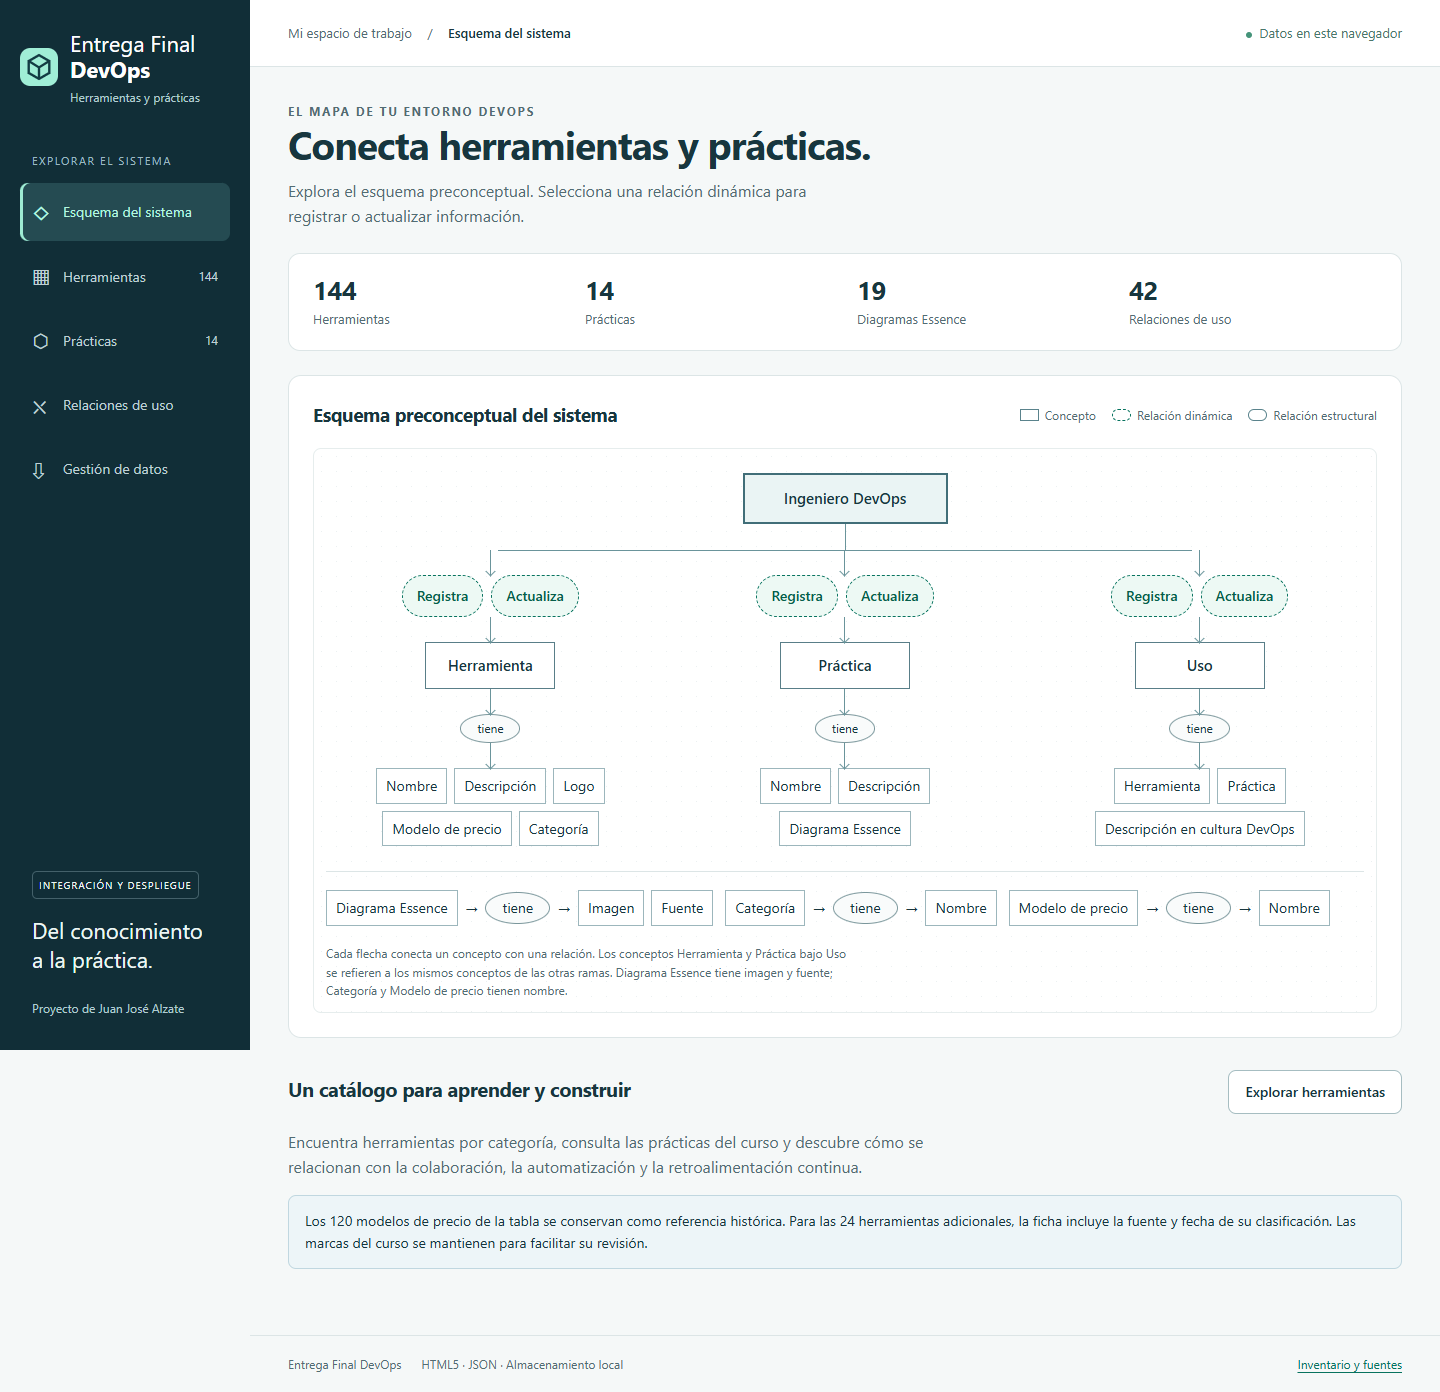
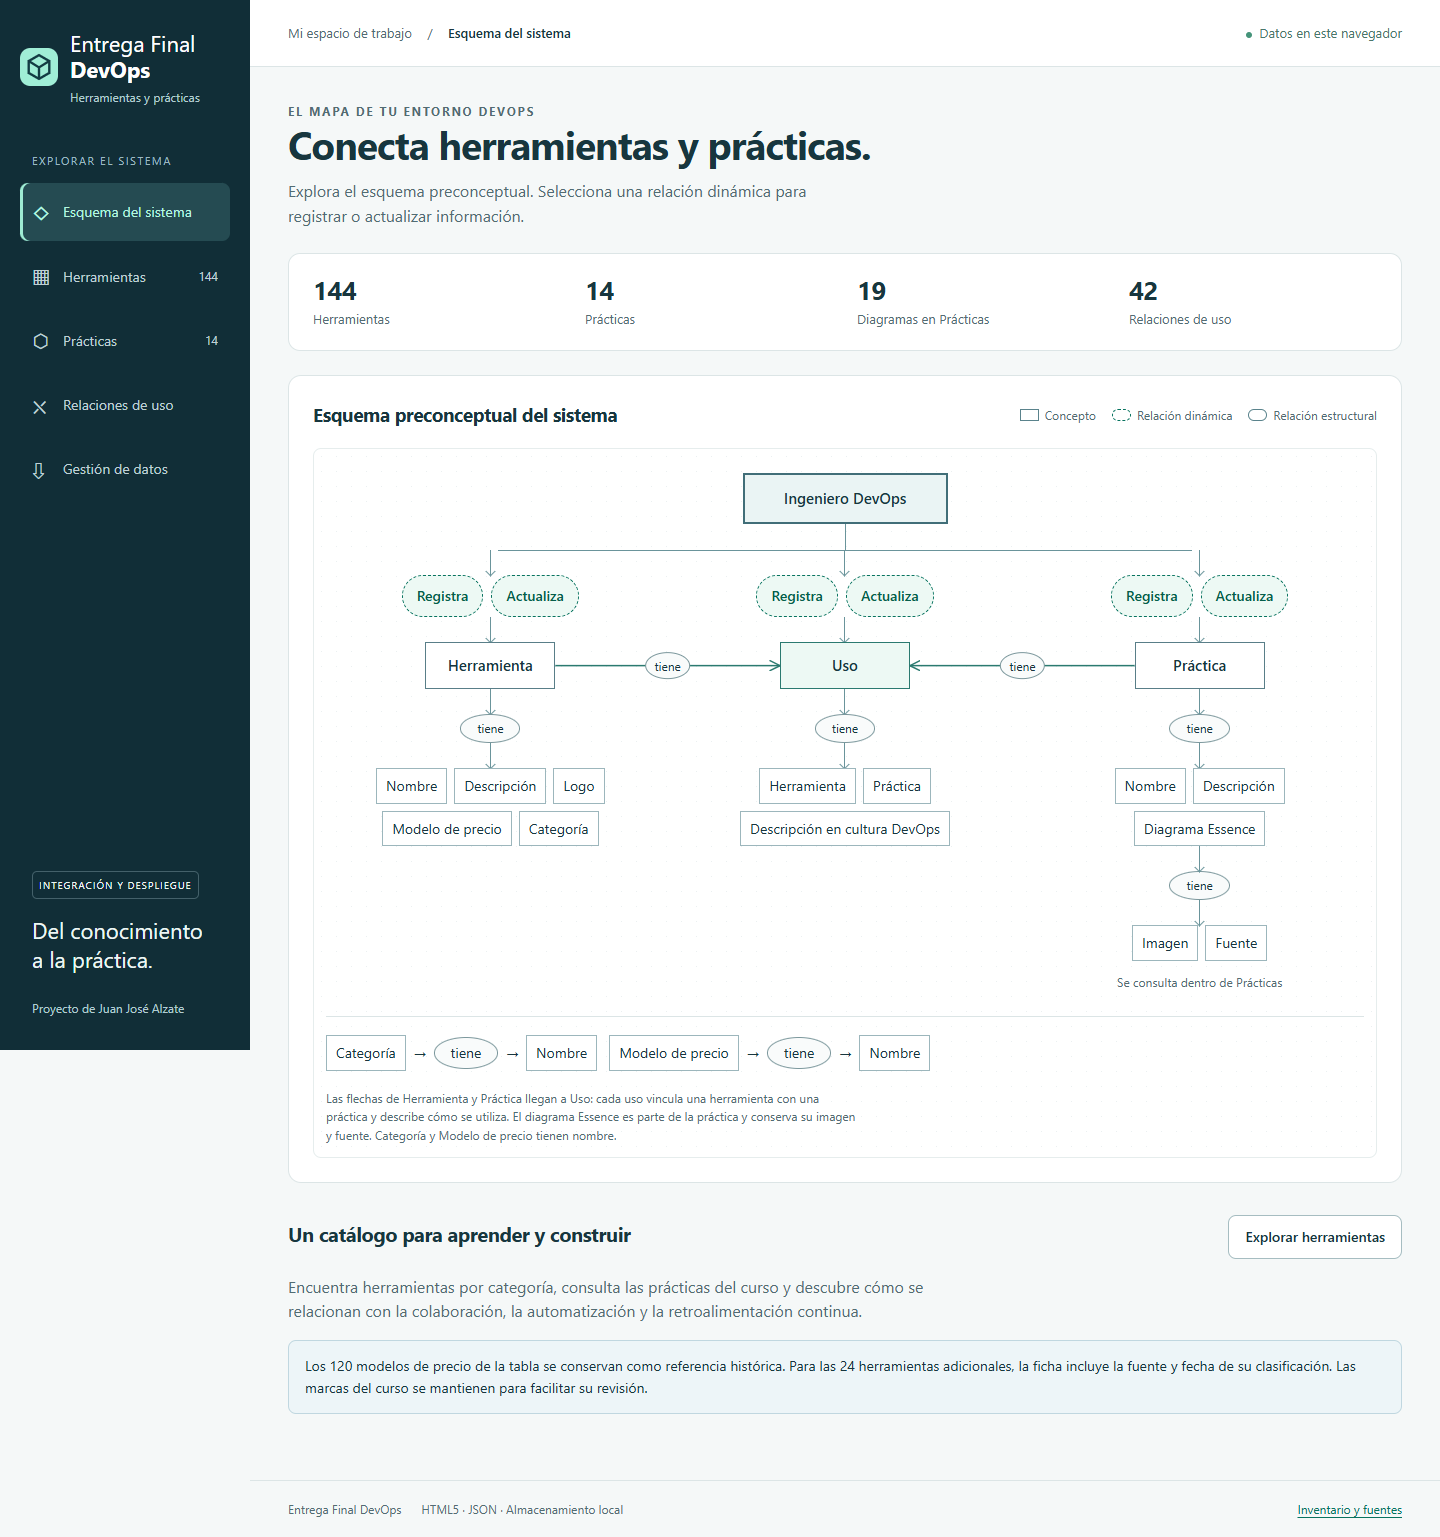
feat: centrar Uso y conectar herramientas y practicas en el esquema

diff --git a/app/js/schema.js b/app/js/schema.js
@@ -1,0 +1,97 @@
+import { escape as e } from "./ui.js";
+
+export function renderSchema() {
+  const branch = (type, label, attributes, detail = "") =>
+    `<div class="branch" data-entity="${type}"><div class="connector"></div><div class="dynamic-row"><a class="dynamic-link" href="#/${type}/new" aria-label="Registrar ${label.toLowerCase()}">Registra</a><a class="dynamic-link" href="#/${type}" aria-label="Actualizar ${label.toLowerCase()}">Actualiza</a></div><div class="connector"></div><div class="concept" id="concept-${type}">${label}</div><div class="connector"></div><div class="relation-static">tiene</div><div class="connector"></div><div class="attributes">${attributes.map((a) => `<span class="attribute">${e(a)}</span>`).join("")}</div>${detail}</div>`;
+  const edge = (from) =>
+    `<g data-schema-edge="${from}-usages"><path class="schema-edge" marker-end="url(#schema-arrow)"></path><g class="schema-edge-label"><rect x="-22" y="-13" width="44" height="26" rx="22"></rect><text text-anchor="middle" dominant-baseline="central">tiene</text></g></g>`;
+  return `<section class="panel"><div class="panel-heading"><h2>Esquema preconceptual del sistema</h2><div class="legend"><span><i class="key"></i>Concepto</span><span><i class="key dynamic"></i>Relación dinámica</span><span><i class="key static"></i>Relación estructural</span></div></div>
+    <div class="schema" role="group" aria-label="Ingeniero DevOps registra y actualiza herramientas, usos y prácticas" aria-describedby="schema-description">
+      <div class="schema-actor">Ingeniero DevOps</div><div class="schema-trunk"></div>
+      <div class="branches">
+        <svg class="schema-connections" aria-hidden="true" focusable="false"><defs><marker id="schema-arrow" viewBox="0 0 8 8" refX="8" refY="4" markerWidth="7" markerHeight="7" orient="auto"><path d="M 0 0 L 8 4 L 0 8" fill="none" stroke="#2b7a70" stroke-width="1.2"></path></marker></defs>${edge("tools")}${edge("practices")}</svg>
+        ${branch("tools", "Herramienta", ["Nombre", "Descripción", "Logo", "Modelo de precio", "Categoría"])}
+        ${branch("usages", "Uso", ["Herramienta", "Práctica", "Descripción en cultura DevOps"])}
+        ${branch("practices", "Práctica", ["Nombre", "Descripción", "Diagrama Essence"], '<div class="practice-diagram-detail"><div class="connector"></div><div class="relation-static">tiene</div><div class="connector"></div><div class="attributes"><span class="attribute">Imagen</span><span class="attribute">Fuente</span></div><span class="schema-context">Se consulta dentro de Prácticas</span></div>')}
+      </div>
+      <div class="schema-extensions"><div><span class="attribute">Categoría</span><span aria-hidden="true">→</span><span class="relation-static">tiene</span><span aria-hidden="true">→</span><span class="attribute">Nombre</span></div><div><span class="attribute">Modelo de precio</span><span aria-hidden="true">→</span><span class="relation-static">tiene</span><span aria-hidden="true">→</span><span class="attribute">Nombre</span></div></div>
+      <p class="schema-note" id="schema-description">Las flechas de Herramienta y Práctica llegan a Uso: cada uso vincula una herramienta con una práctica y describe cómo se utiliza. El diagrama Essence es parte de la práctica y conserva su imagen y fuente. Categoría y Modelo de precio tienen nombre.</p>
+    </div></section>`;
+}
+
+// Medir los conceptos mantiene las flechas unidas al cambiar el ancho o el tamaño de texto.
+export function connectSchema(root) {
+  if (!root) return () => {};
+  const svg = root.querySelector(".schema-connections");
+  const concepts = Object.fromEntries(
+    ["tools", "usages", "practices"].map((type) => [
+      type,
+      root.querySelector(`#concept-${type}`),
+    ]),
+  );
+  let frame = 0;
+  const draw = () => {
+    if (!root.isConnected) return;
+    const bounds = root.getBoundingClientRect();
+    svg.setAttribute("viewBox", `0 0 ${bounds.width} ${bounds.height}`);
+    const boxes = Object.fromEntries(
+      Object.entries(concepts).map(([type, el]) => {
+        const box = el.getBoundingClientRect();
+        return [
+          type,
+          {
+            left: box.left - bounds.left,
+            right: box.right - bounds.left,
+            y: box.top - bounds.top + box.height / 2,
+          },
+        ];
+      }),
+    );
+    const target = boxes.usages;
+    const stacked = Math.abs(boxes.tools.y - target.y) > 10;
+    for (const type of ["tools", "practices"]) {
+      const source = boxes[type],
+        left = type === "tools";
+      const fromX = stacked
+        ? left
+          ? source.left
+          : source.right
+        : left
+          ? source.right
+          : source.left;
+      const toX = left ? target.left : target.right;
+      let path, labelX, labelY;
+      if (stacked) {
+        const lane = left ? 24 : bounds.width - 24;
+        path = `M ${fromX} ${source.y} H ${lane} V ${target.y} H ${toX}`;
+        labelX = lane;
+        labelY = (source.y + target.y) / 2;
+      } else {
+        path = `M ${fromX} ${source.y} L ${toX} ${target.y}`;
+        labelX = (fromX + toX) / 2;
+        labelY = (source.y + target.y) / 2;
+      }
+      const group = svg.querySelector(`[data-schema-edge="${type}-usages"]`);
+      group.querySelector("path").setAttribute("d", path);
+      group
+        .querySelector(".schema-edge-label")
+        .setAttribute("transform", `translate(${labelX} ${labelY})`);
+    }
+  };
+  const schedule = () => {
+    cancelAnimationFrame(frame);
+    frame = requestAnimationFrame(draw);
+  };
+  const observer = new ResizeObserver(schedule);
+  observer.observe(root);
+  for (const concept of Object.values(concepts)) observer.observe(concept);
+  window.addEventListener("beforeprint", draw);
+  window.addEventListener("afterprint", schedule);
+  draw();
+  return () => {
+    cancelAnimationFrame(frame);
+    observer.disconnect();
+    window.removeEventListener("beforeprint", draw);
+    window.removeEventListener("afterprint", schedule);
+  };
+}

diff --git a/app/js/app.js b/app/js/app.js
@@ -1,10 +1,12 @@
-import { $, escape, intro, link, notify } from "./ui.js";
+import { $, intro, link, notify } from "./ui.js";
 import { Database, STORAGE_KEY, EMPTY_KEY } from "./store.js";
 import { renderTools } from "./tools.js";
 import { renderPractices } from "./practices.js";
 import { renderUsages } from "./usages.js";
 import { renderBackup } from "./backup.js";
+import { renderSchema, connectSchema } from "./schema.js";
 const store = new Database();
+let disconnectSchema = () => {};
 
 const titles = {
   home: "Esquema del sistema",
@@ -16,8 +18,6 @@ const titles = {
 export function home(
   db = { tools: [], practices: [], diagrams: [], usages: [] },
 ) {
-  const branch = (type, label, attributes) =>
-    `<div class="branch"><div class="connector"></div><div class="dynamic-row"><a class="dynamic-link" href="#/${type}/new" aria-label="Registrar ${label.toLowerCase()}">Registra</a><a class="dynamic-link" href="#/${type}" aria-label="Actualizar ${label.toLowerCase()}">Actualiza</a></div><div class="connector"></div><div class="concept">${label}</div><div class="connector"></div><div class="relation-static">tiene</div><div class="connector"></div><div class="attributes">${attributes.map((a) => `<span class="attribute">${a}</span>`).join("")}</div></div>`;
   return (
     intro(
       "Conecta herramientas y prácticas.",
@@ -31,13 +31,14 @@ export function home(
     !db.usages.length
       ? `<div class="info">El catálogo está vacío. Registra tus propios recursos desde el esquema o <a href="#/backup">restaura un respaldo en Gestión de datos</a>.</div>`
       : "") +
-    `<div class="stats"><div class="stat"><b>${db.tools.length}</b><span>Herramientas</span></div><div class="stat"><b>${db.practices.length}</b><span>Prácticas</span></div><div class="stat"><b>${db.diagrams.length}</b><span>Diagramas Essence</span></div><div class="stat"><b>${db.usages.length}</b><span>Relaciones de uso</span></div></div>
- <section class="panel"><div class="panel-heading"><h2>Esquema preconceptual del sistema</h2><div class="legend"><span><i class="key"></i>Concepto</span><span><i class="key dynamic"></i>Relación dinámica</span><span><i class="key static"></i>Relación estructural</span></div></div><div class="schema" aria-label="Ingeniero DevOps registra y actualiza herramientas, prácticas y usos"><div class="schema-actor">Ingeniero DevOps</div><div class="schema-trunk"></div><div class="branches">${branch("tools", "Herramienta", ["Nombre", "Descripción", "Logo", "Modelo de precio", "Categoría"])}${branch("practices", "Práctica", ["Nombre", "Descripción", "Diagrama Essence"])}${branch("usages", "Uso", ["Herramienta", "Práctica", "Descripción en cultura DevOps"])}</div><div class="schema-extensions"><div><span class="attribute">Diagrama Essence</span><span aria-hidden="true">→</span><span class="relation-static">tiene</span><span aria-hidden="true">→</span><span class="attribute">Imagen</span><span class="attribute">Fuente</span></div><div><span class="attribute">Categoría</span><span aria-hidden="true">→</span><span class="relation-static">tiene</span><span aria-hidden="true">→</span><span class="attribute">Nombre</span></div><div><span class="attribute">Modelo de precio</span><span aria-hidden="true">→</span><span class="relation-static">tiene</span><span aria-hidden="true">→</span><span class="attribute">Nombre</span></div></div><p class="schema-note">Cada flecha conecta un concepto con una relación. Los conceptos Herramienta y Práctica bajo Uso se refieren a los mismos conceptos de las otras ramas. Diagrama Essence tiene imagen y fuente; Categoría y Modelo de precio tienen nombre.</p></div></section>
+    `<div class="stats"><div class="stat"><b>${db.tools.length}</b><span>Herramientas</span></div><div class="stat"><b>${db.practices.length}</b><span>Prácticas</span></div><div class="stat"><b>${db.diagrams.length}</b><span>Diagramas en Prácticas</span></div><div class="stat"><b>${db.usages.length}</b><span>Relaciones de uso</span></div></div>
+ ${renderSchema()}
  <div class="section-title"><h2>Un catálogo para aprender y construir</h2>${link("#/tools", "Explorar herramientas")}</div><p class="muted">Encuentra herramientas por categoría, consulta las prácticas del curso y descubre cómo se relacionan con la colaboración, la automatización y la retroalimentación continua.</p><div class="info">Los 120 modelos de precio de la tabla se conservan como referencia histórica. Para las 24 herramientas adicionales, la ficha incluye la fuente y fecha de su clasificación. Las marcas del curso se mantienen para facilitar su revisión.</div>`
   );
 }
 function route(moveFocus = true) {
   if (!store.data) return;
+  disconnectSchema();
   const [section = "home", mode, id] = (
     location.hash.slice(2).split("?")[0] || "home"
   ).split("/");
@@ -53,8 +54,10 @@ function route(moveFocus = true) {
   });
   $("#nav-tools").textContent = store.data.tools.length;
   $("#nav-practices").textContent = store.data.practices.length;
-  if (section === "home") $("#main").innerHTML = home(store.data);
-  else if (section === "tools") renderTools(store, mode, id);
+  if (section === "home") {
+    $("#main").innerHTML = home(store.data);
+    disconnectSchema = connectSchema($(".branches"));
+  } else if (section === "tools") renderTools(store, mode, id);
   else if (section === "practices") renderPractices(store, mode, id);
   else if (section === "usages") renderUsages(store, mode, id);
   else if (section === "backup") renderBackup(store);

diff --git a/app/styles.css b/app/styles.css
@@ -380,6 +380,7 @@ button:hover {
   border-radius: 20px;
 }
 .schema {
+  container-type: inline-size;
   background: radial-gradient(#b4c6c744 0.8px, transparent 0.8px);
   background-size: 15px 15px;
   padding: 24px 12px 12px;
@@ -424,6 +425,46 @@ button:hover {
   flex-direction: column;
   text-align: center;
   min-width: 0;
+}
+.branch > :not(.connector) {
+  position: relative;
+  z-index: 2;
+}
+.branch[data-entity="usages"] > .concept {
+  border-color: #2b7a70;
+  background: #edf9f4;
+}
+.schema-connections {
+  position: absolute;
+  inset: 0;
+  width: 100%;
+  height: 100%;
+  pointer-events: none;
+  z-index: 1;
+}
+.schema-edge {
+  fill: none;
+  stroke: #2b7a70;
+  stroke-width: 1.5;
+}
+.schema-edge-label rect {
+  fill: #f9fbfb;
+  stroke: #7a969b;
+}
+.schema-edge-label text {
+  fill: var(--ink);
+  font-size: 12px;
+}
+.practice-diagram-detail {
+  display: flex;
+  flex-direction: column;
+  align-items: center;
+  max-width: 100%;
+}
+.schema-context {
+  font-size: 12px;
+  color: var(--muted);
+  margin-top: 12px;
 }
 .connector {
   height: 25px;
@@ -497,6 +538,30 @@ button:hover {
   margin: 18px 0 0;
   font-size: 12px;
   color: var(--muted);
+}
+@container (max-width: 620px) {
+  .branches {
+    grid-template-columns: 1fr;
+    gap: 30px;
+    padding-inline: 48px;
+  }
+  .branches:before {
+    display: none;
+  }
+  .branch:not(:first-of-type):before {
+    content: "Ingeniero DevOps";
+    font-size: 12px;
+    color: var(--muted);
+    border: 1px solid #8faab0;
+    background: white;
+    padding: 5px 10px;
+  }
+  .attributes {
+    max-width: min(270px, 100%);
+  }
+  .attribute {
+    max-width: 100%;
+  }
 }
 .section-title {
   margin: 32px 0 16px;
@@ -1097,24 +1162,6 @@ pre {
   }
   .schema {
     padding: 18px 10px;
-  }
-  .branches {
-    grid-template-columns: 1fr;
-    gap: 30px;
-  }
-  .branches:before {
-    display: none;
-  }
-  .branch:not(:first-child):before {
-    content: "Ingeniero DevOps";
-    font-size: 12px;
-    color: var(--muted);
-    border: 1px solid #8faab0;
-    background: white;
-    padding: 5px 10px;
-  }
-  .attributes {
-    max-width: 270px;
   }
   .stats {
     padding: 18px;

diff --git a/docs/matriz-requisitos.md b/docs/matriz-requisitos.md
@@ -5,7 +5,7 @@ Fuente: `inventario/fuentes/supletorio.pdf`, página 1. Responsable: Juan José 
 | Requisito | Implementación | Evidencia |
 |---|---|---|
 | HTML5 y CSS | `app/index.html`, `app/styles.css` | Inicio y capturas de escritorio/móvil |
-| Index como esquema preconceptual completo | `app/js/app.js`, conceptos, atributos y seis relaciones dinámicas | Prueba de seis enlaces y sus destinos en Chrome |
+| Index como esquema preconceptual completo | `app/js/app.js` y `app/js/schema.js`: conceptos, atributos, seis relaciones dinámicas y Herramienta → Uso ← Práctica | Seis enlaces y sus destinos en Chrome; flechas conectadas a Uso entre 320 y 1920 px |
 | Registrar/actualizar herramientas con logo, nombre, descripción, precio y categoría | `app/js/tools.js` | Registro y edición de herramienta con imagen cargada |
 | Herramientas de los bloques exigidos | `app/data/database.json`, 144 herramientas | Test de igualdad exacta de IDs con el inventario |
 | Registrar/actualizar prácticas con nombre, descripción e imagen | `app/js/practices.js` | Registro, edición y sincronización del diagrama |
@@ -35,3 +35,5 @@ Fuente: `inventario/fuentes/supletorio.pdf`, página 1. Responsable: Juan José 
 `evidencias/pruebas-datos.xml`: 35 casos aprobados. `evidencias/pruebas-navegador.json`: 55 comprobaciones aprobadas en Google Chrome 157.0.8103.79. `evidencias/pruebas-respaldos.json`: 19 comprobaciones de exportación, vaciado y restauración. `evidencias/pruebas-guia-json.json`: 17 comprobaciones de la guía, sus descargas, conversión Base64 e importación de archivos propios. Se verifica la restauración sin acceso a los archivos originales. Las pruebas utilizan perfiles aislados y un portapapeles simulado; no borran datos personales del navegador ni cambian el portapapeles del usuario.
 
 Las verificaciones automatizadas comprueban cobertura, integridad y comportamiento. La ejecución desde el ZIP extraído se registra en `evidencias/entrega-limpia.json`. No se ha realizado el envío a MinasLap.
+
+`evidencias/esquema-relaciones.json` registra la revisión visual y geométrica del esquema en nueve anchos: Uso permanece entre las otras entidades, las dos flechas terminan en sus bordes y no hay desbordamiento horizontal. Los 19 diagramas se conservan dentro de Prácticas.

diff --git a/docs/diseno.md b/docs/diseno.md
@@ -34,7 +34,11 @@ Un error de lectura, validación o escritura no autoriza reemplazar datos. Resta
 
 ## Esquema preconceptual
 
-El index presenta conceptos rectangulares, relaciones estructurales «tiene» con borde continuo y relaciones dinámicas con borde discontinuo. Cada acción Registrar/Actualizar enlaza a su interfaz. Las ramas de atributos muestran nombre, descripción, logo, precio y categoría para herramientas; nombre, descripción y diagrama para prácticas; herramienta, práctica y descripción cultural para usos. La misma referencia de concepto en distintas ramas se identifica por nombre.
+El index presenta conceptos rectangulares, relaciones estructurales «tiene» con borde continuo y relaciones dinámicas con borde discontinuo. Las ramas se ordenan Herramienta → Uso ← Práctica: Uso ocupa el centro y recibe una flecha desde cada entidad, con la relación estructural «tiene». Cada acción Registrar/Actualizar enlaza a su interfaz. Las ramas de atributos muestran nombre, descripción, logo, precio y categoría para herramientas; herramienta, práctica y descripción cultural para usos; nombre, descripción y diagrama para prácticas. La misma referencia de concepto en distintas ramas se identifica por nombre.
+
+La definición de Diagrama Essence, con su imagen y fuente, queda dentro de la rama Práctica. El contador «Diagramas en Prácticas» incluye los 14 diagramas asociados a prácticas y los 5 materiales de apoyo disponibles en esa sección. Se conservan los 19 diagramas sin presentar una sección de navegación independiente.
+
+`app/js/schema.js` genera el esquema y ajusta las conexiones SVG a la posición de sus conceptos. Cuando el contenedor es estrecho, las ramas se apilan en el mismo orden y las flechas recorren los márgenes hasta Uso. La aplicación desconecta la observación de tamaño al abandonar la vista.
 
 La notación sigue la descripción de [Zapata, Tamayo y Arango, sección 2.3](https://revistas.unal.edu.co/index.php/dyna/article/download/981/11652/25619?inline=1). El diagrama concreto es una elaboración para este proyecto.
 

diff --git a/docs/guia.md b/docs/guia.md
@@ -21,6 +21,8 @@ Si el puerto 8765 ya está ocupado, comprueba si dejaste abierto el servidor del
 
 Las seis acciones están disponibles desde el esquema inicial. También puedes usar la navegación lateral o superior. Cancelar deja intacta la base. El sistema conserva el ID de los registros editados para mantener sus relaciones.
 
+El esquema coloca **Uso en el centro**, entre Herramienta y Práctica. Las dos flechas llegan a Uso para mostrar que relaciona una herramienta con una práctica. En pantallas estrechas, las ramas se apilan y conservan sus conexiones. **Diagrama Essence** sigue apareciendo dentro de Práctica, con Imagen y Fuente: es parte de su contenido. El contador «Diagramas en Prácticas» reúne los diagramas de las fichas y el material de apoyo de esa sección.
+
 No se admiten nombres repetidos dentro del mismo tipo de entidad ni una pareja herramienta/práctica repetida. Para registrar otro ejemplo de la misma pareja, amplía su descripción existente. Los textos obligatorios no pueden quedar vacíos.
 
 Los formularios aceptan imágenes PNG, JPEG o WebP de hasta 1 MB. La vista previa permite comprobar el archivo antes de guardar. Las imágenes cargadas se incorporan al respaldo. Los logos iniciales pueden estar en SVG porque forman parte de los recursos locales revisados; el formulario no admite SVG de usuario.
